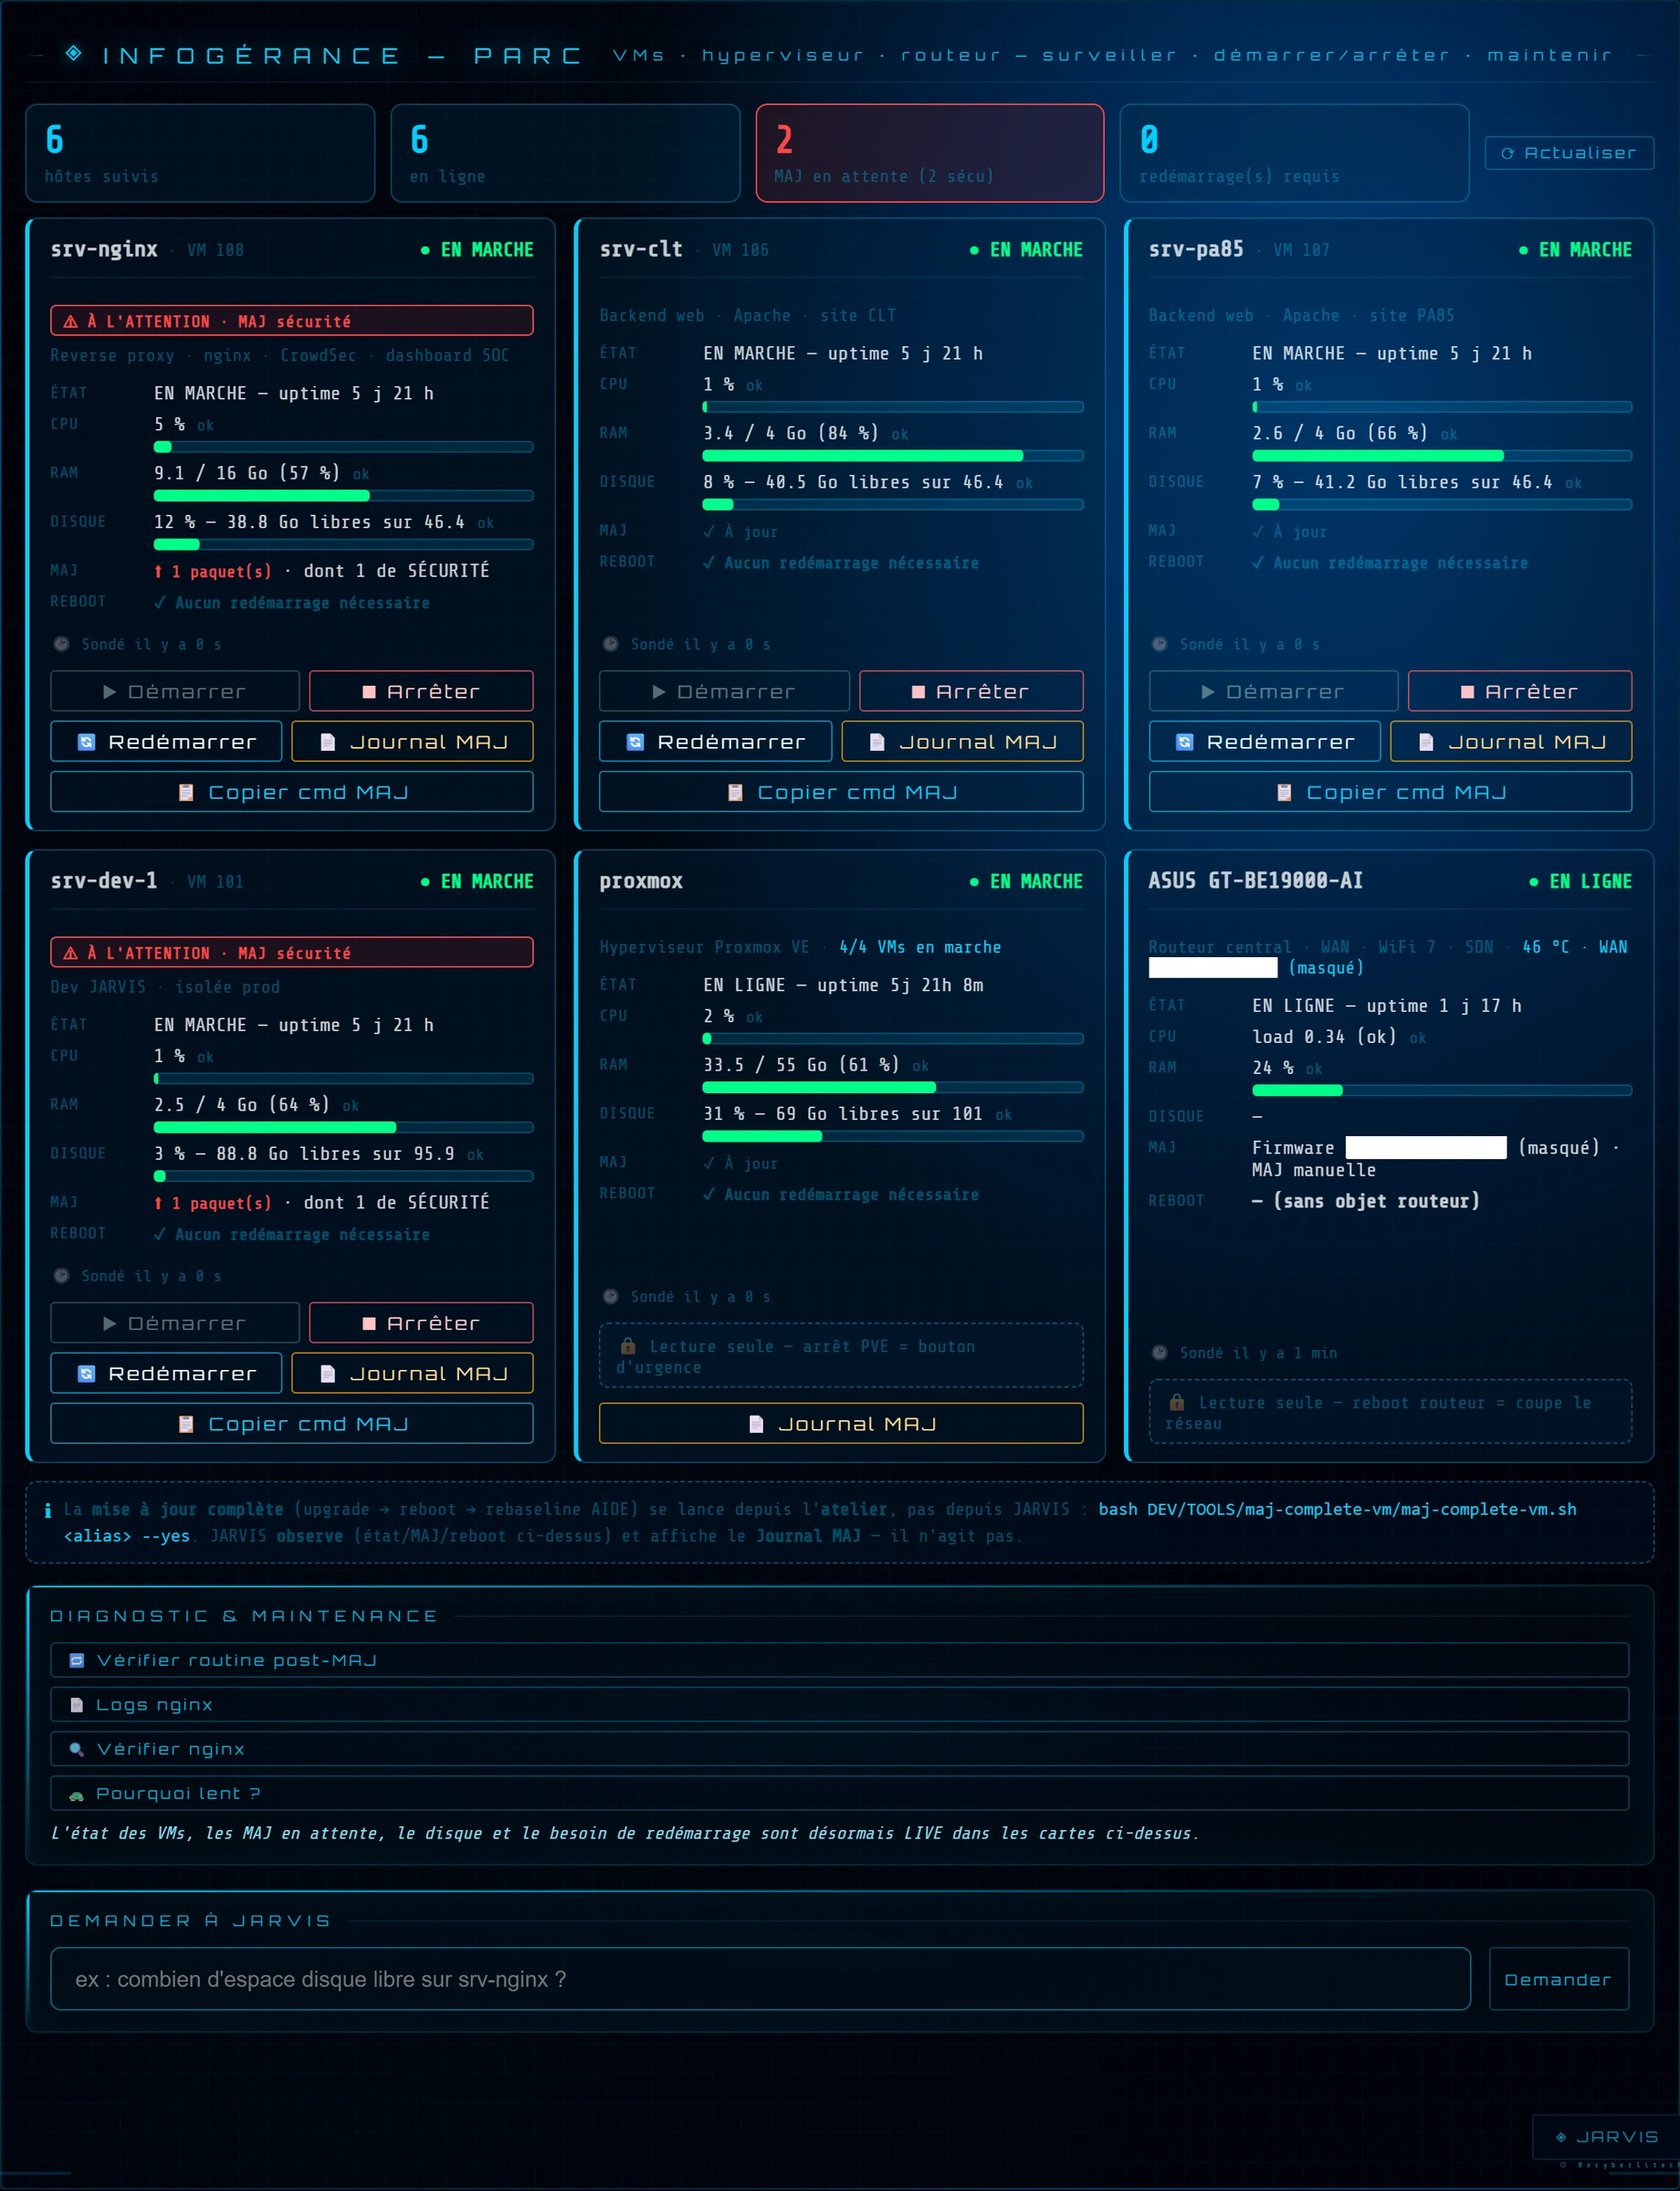
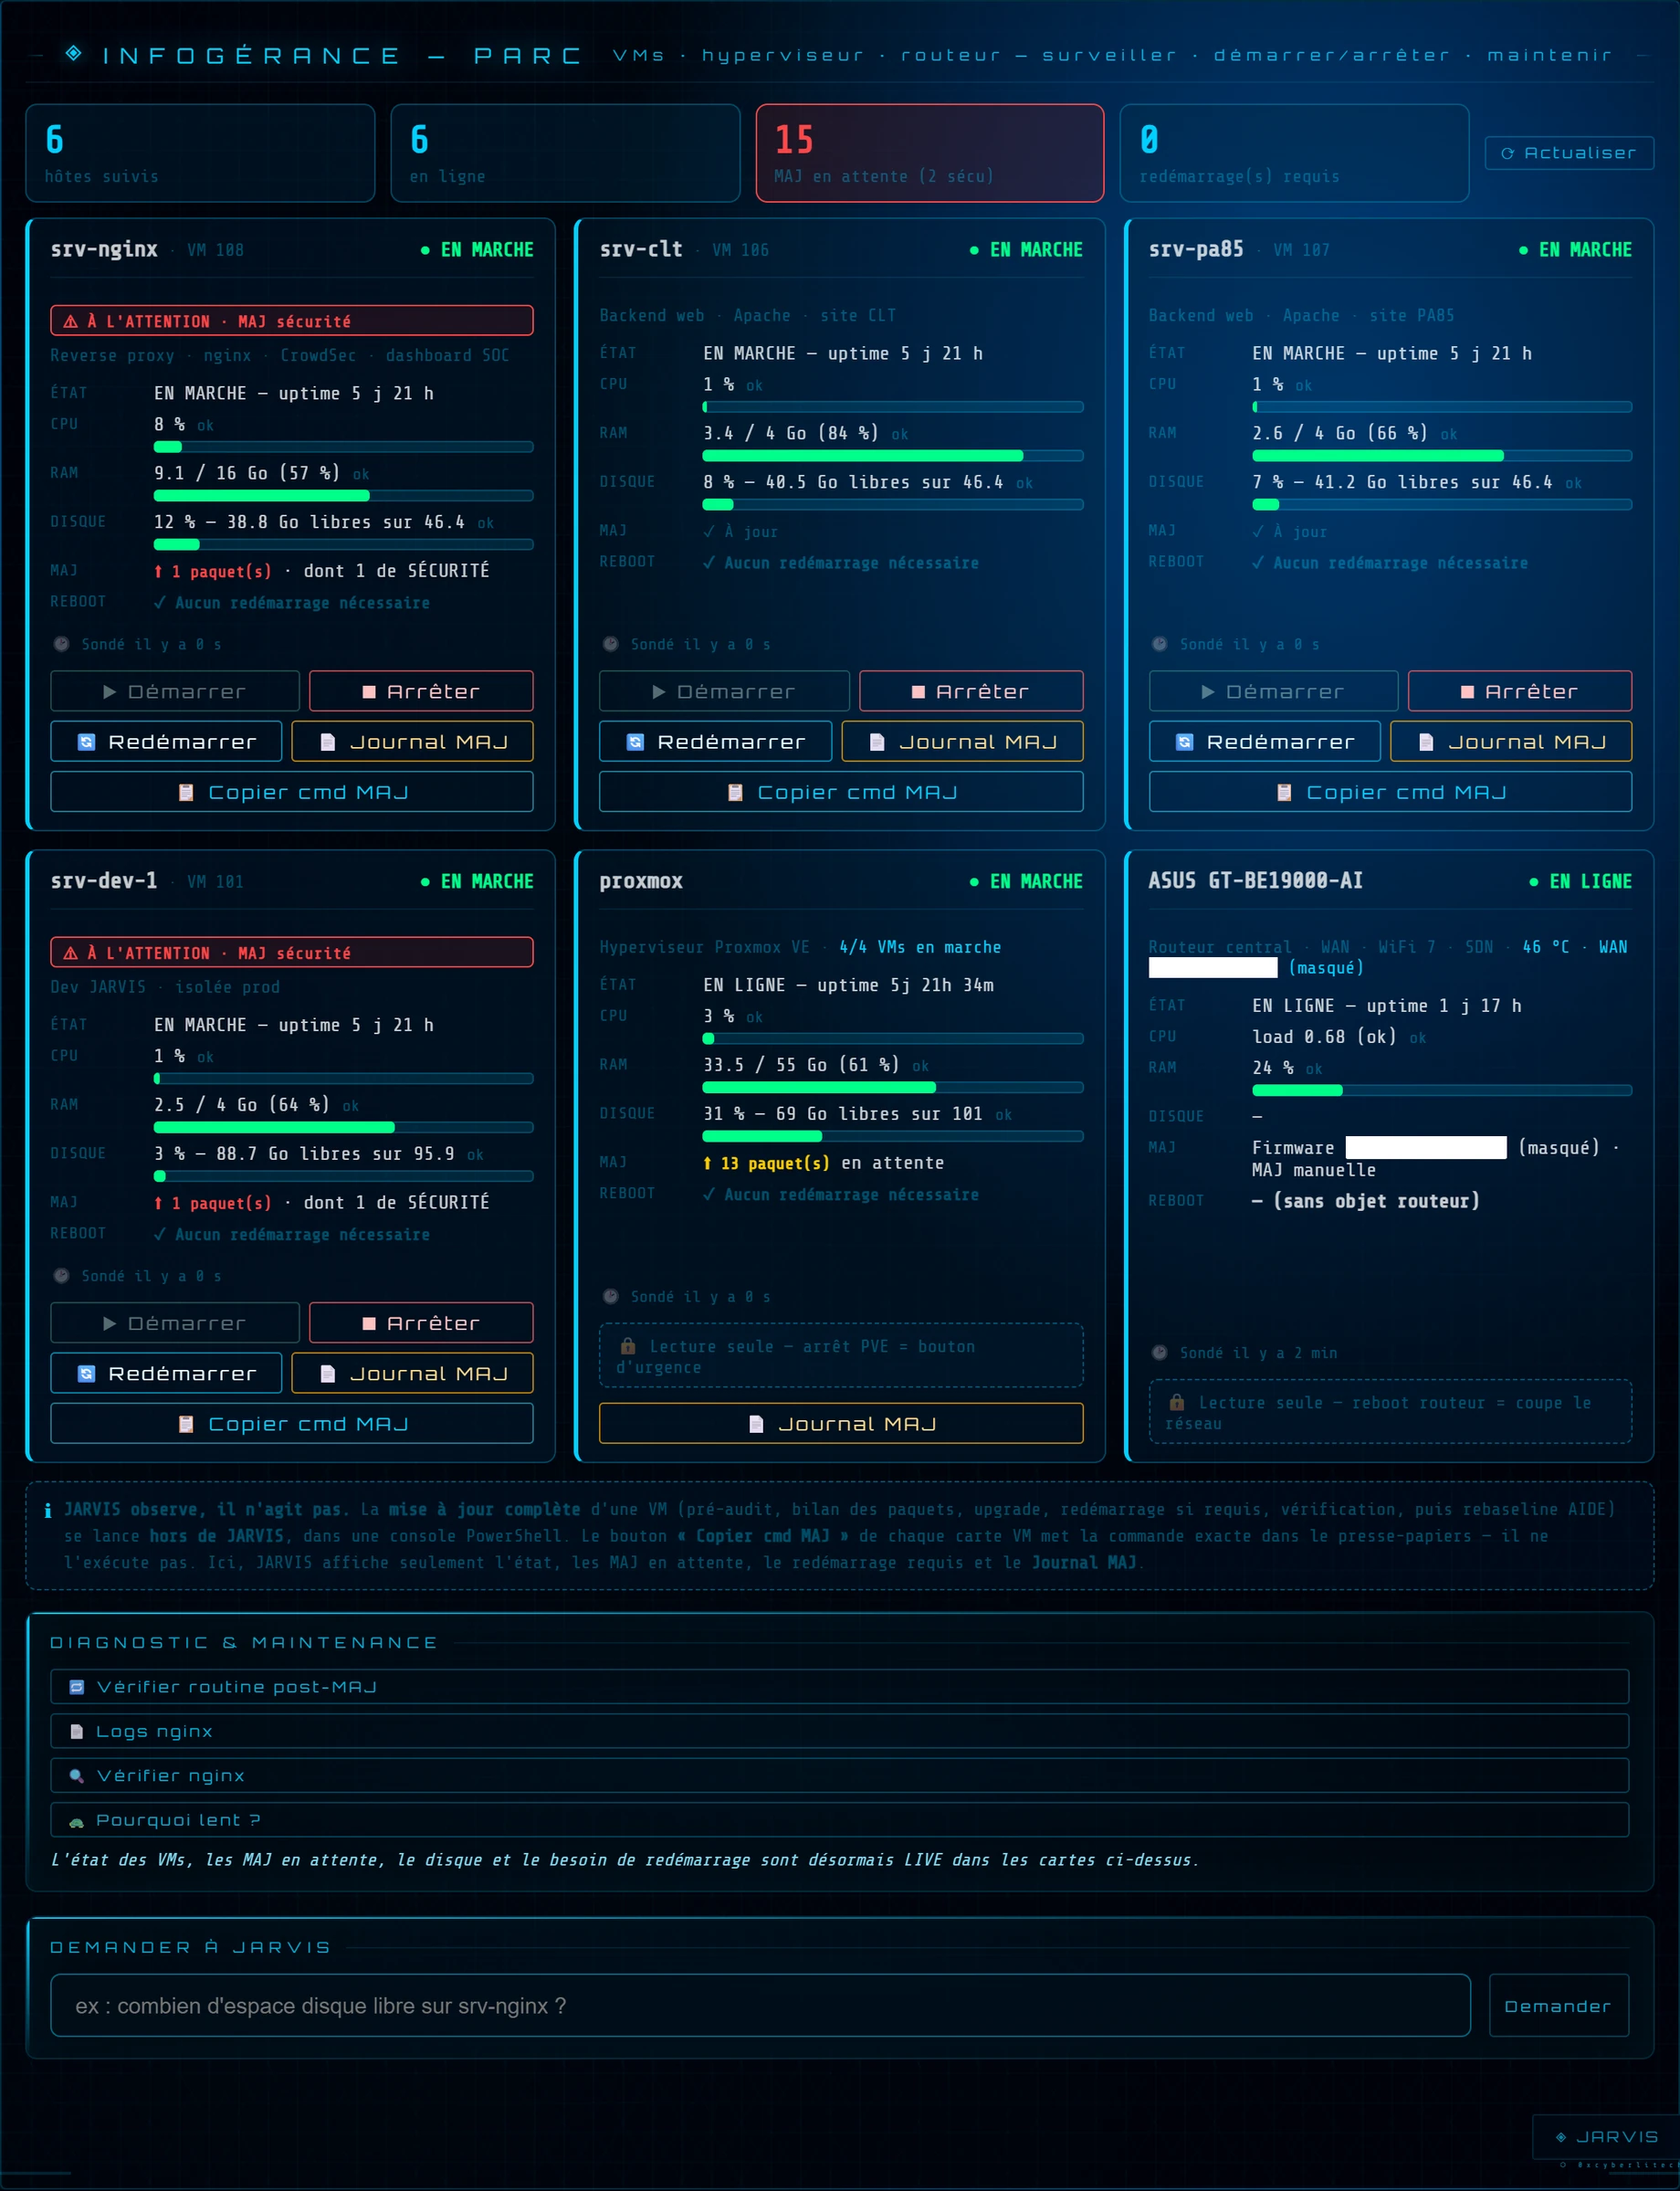
docs(vitrine): recapture INFOGERANCE — la capture publiait le bandeau MENTEUR
Images/infogerance.webp (commit 4cdd9df) montrait le bandeau qui disait de lancer
la MAJ « depuis l'atelier : bash DEV/TOOLS/maj-complete-vm/... » — une consigne
FAUSSE (l'outil d'atelier n'est plus dans le chemin depuis le 2026-07-16) qui
contredisait le bouton « Copier cmd MAJ » de la meme image. Un doc public est
publie POUR TOUJOURS (§4) : on ne republie pas un mensonge.

- Recapture par l'outil CANONIQUE DEV/TOOLS/ui-screenshot (vue infogerance-tab,
  mecanisme `redact` REUTILISE TEL QUEL, rien de bricole a la main).
  Verdict de l'outil : « 2 zone(s) caviardee(s) verifiee(s) uniformes, 0 fuite
  residuelle » — le caviardage est applique DANS LE NAVIGATEUR AVANT rasterisation
  (le secret n'entre jamais dans le PNG), puis deux verrous fail-closed : `leaks`
  vide, et chaque zone = aplat STRICTEMENT uniforme au stade PNG.
- VERIFIE DE MES YEUX sur le livrable (pas sur le PNG intermediaire) : le bandeau
  lu dans l'image dit bien « JARVIS observe, il n'agit pas. […] se lance hors de
  JARVIS, dans une console PowerShell. Le bouton « Copier cmd MAJ » […] met la
  commande exacte dans le presse-papiers — il ne l'execute pas. » ; zero occurrence
  de DEV/TOOLS. Caviardage tenu APRES downscale + WebP lossy : amplitude residuelle
  3 et 4 /255 dans les deux aplats, contre 246 et 252 /255 pour le texte apparie
  juste a droite -> aucun glyphe n'a survecu. Mention « (masque) » visible a cote
  de chaque aplat (a11y : l'absence se DIT, elle ne se devine pas).
[…]

Changed region(s): [[0.0, 0.6786, 0.9603, 0.9254], [0.8984, 0.8945, 0.9603, 0.9254], [0.4337, 0.5244, 0.4957, 0.5552]]

diff --git a/README.md b/README.md
@@ -216,7 +216,7 @@ Le **centre de défense** de JARVIS. Courbe d'**activité sur 30 jours** (pics o
   <br/><sub><em>Le <b>parc entier sur un seul écran</b> : quatre compteurs <b>comptés en direct</b> (hôtes suivis · en ligne · MAJ en attente · redémarrages requis), puis <b>une carte par hôte</b> — toutes au <b>même gabarit</b> (ÉTAT · CPU · RAM · DISQUE · MAJ · REBOOT), pour qu'une ligne manquante se <em>voie</em>. Chaque carte <b>date sa sonde</b> (« Sondé il y a … », et <b>« ⚠ SONDE PÉRIMÉE »</b> au-delà de 10 min) et lève une pastille <b>« ⚠ À L'ATTENTION »</b> <b>en toutes lettres</b>, jamais un simple code couleur. <b>IP WAN et version de firmware caviardées</b> par un aplat opaque appliqué <em>avant</em> la capture.</em></sub>
 </div>
 
-**Le produit observe, l'atelier agit.** JARVIS ne déclenche pas la mise à jour complète d'une VM : le bandeau du haut rappelle la commande à passer côté atelier, et JARVIS en affiche l'**état** puis le **journal**. Une valeur qu'il ne sait pas vérifier — index de paquets périmé, sonde en échec — est **dite** (« ⚠ Non vérifiable », avec sa raison) et **jamais** repeinte en « ✓ à jour » : un total n'additionne que ce qui est connu, et compte à part ce qui ne l'est pas.
+**JARVIS observe, il n'agit pas.** JARVIS ne déclenche pas la mise à jour complète d'une VM : elle se lance **hors de JARVIS**, dans une console. Le bandeau le **dit en toutes lettres** et renvoie au bouton **« Copier cmd MAJ »** — qui reste le **seul** endroit où la commande existe, pour qu'un chemin ne puisse pas dériver entre deux textes. JARVIS, lui, en affiche l'**état** puis le **journal**. Une valeur qu'il ne sait pas vérifier — index de paquets périmé, sonde en échec — est **dite** (« ⚠ Non vérifiable », avec sa raison) et **jamais** repeinte en « ✓ à jour » : un total n'additionne que ce qui est connu, et compte à part ce qui ne l'est pas.
 
 <div align="center">
 
@@ -226,7 +226,7 @@ Le **centre de défense** de JARVIS. Courbe d'**activité sur 30 jours** (pics o
 <tr><td><b>⏹ Arrêter</b></td><td>Même chemin en <code>qm stop</code>, avec <b>deux verrous</b> : l'arrêt passe par une <b>clé SSH d'administration dédiée</b> — la clé courante est bridée côté hyperviseur et <b>refuse</b> stop / shutdown / reset —, et une <b>liste noire de VMs qu'on n'arrête jamais</b> protège le pare-feu réseau. Inactif si la VM est déjà arrêtée.</td></tr>
 <tr><td><b>🔄 Redémarrer</b></td><td>Volontairement <b>pas</b> un <code>qm reboot</code> : le verbe « redémarre » est <b>exclu</b> de la détection VM, la demande part donc sur le redémarrage <b>du système invité</b> en SSH — et exige une <b>seconde confirmation</b> dans la conversation (« oui » / « non »). Une seule phrase ne peut jamais redémarrer une machine. Sur l'hyperviseur, c'est un <b>refus net</b> : le redémarrer couperait toutes les VMs, ça passe par le menu et sa triple confirmation.</td></tr>
 <tr><td><b>📄 Journal MAJ</b></td><td><b>Lecture seule.</b> Affiche les dernières étapes de la mise à jour complète de cet hôte (✅ / ❌ + détail). Le journal vit <b>hors de l'atelier</b> — il survit donc à une restauration — et sa lecture est <b>bornée en mémoire</b> : un fichier qui grossit ne peut pas faire enfler JARVIS. Le nombre d'étapes est <b>annoncé au lecteur d'écran</b>. Présent sur toutes les cartes sauf le routeur.</td></tr>
-<tr><td><b>📋 Copier cmd MAJ</b></td><td><b>Copie, n'exécute rien.</b> Place dans le presse-papiers la commande de mise à jour complète de cet hôte, à coller côté atelier. La route HTTP qui <em>lançait</em> la mise à jour a été <b>retirée</b> : le produit ne déclenche plus un outil de développement. Délibérément <b>absent sur l'hyperviseur</b> — la routine post-MAJ le refuse, et un raccourci aurait contourné ce garde-fou.</td></tr>
+<tr><td><b>📋 Copier cmd MAJ</b></td><td><b>Copie, n'exécute rien.</b> Place dans le presse-papiers la commande de mise à jour complète de cet hôte, à coller dans une console <b>hors de JARVIS</b>. C'est le <b>seul</b> endroit où cette commande est écrite — le bandeau y renvoie au lieu de la recopier, pour qu'un chemin ne puisse pas dériver entre deux textes. La route HTTP qui <em>lançait</em> la mise à jour a été <b>retirée</b> : le produit ne déclenche plus un outil de développement. Délibérément <b>absent sur l'hyperviseur</b> — la routine post-MAJ le refuse, et un raccourci aurait contourné ce garde-fou.</td></tr>
 <tr><td><b>⟳ Actualiser</b></td><td>Relit <b>tout le parc en un seul appel</b> et repeint. Anti-clignotement : les cartes ne sont re-rendues que si l'<b>état réel</b> a changé — l'âge de la sonde est exclu de la signature —, pour ne pas remettre à zéro le focus ni le défilement toutes les <b>25 s</b>, cadence à laquelle l'onglet se rafraîchit seul tant qu'il est visible.</td></tr>
 </table>
 
